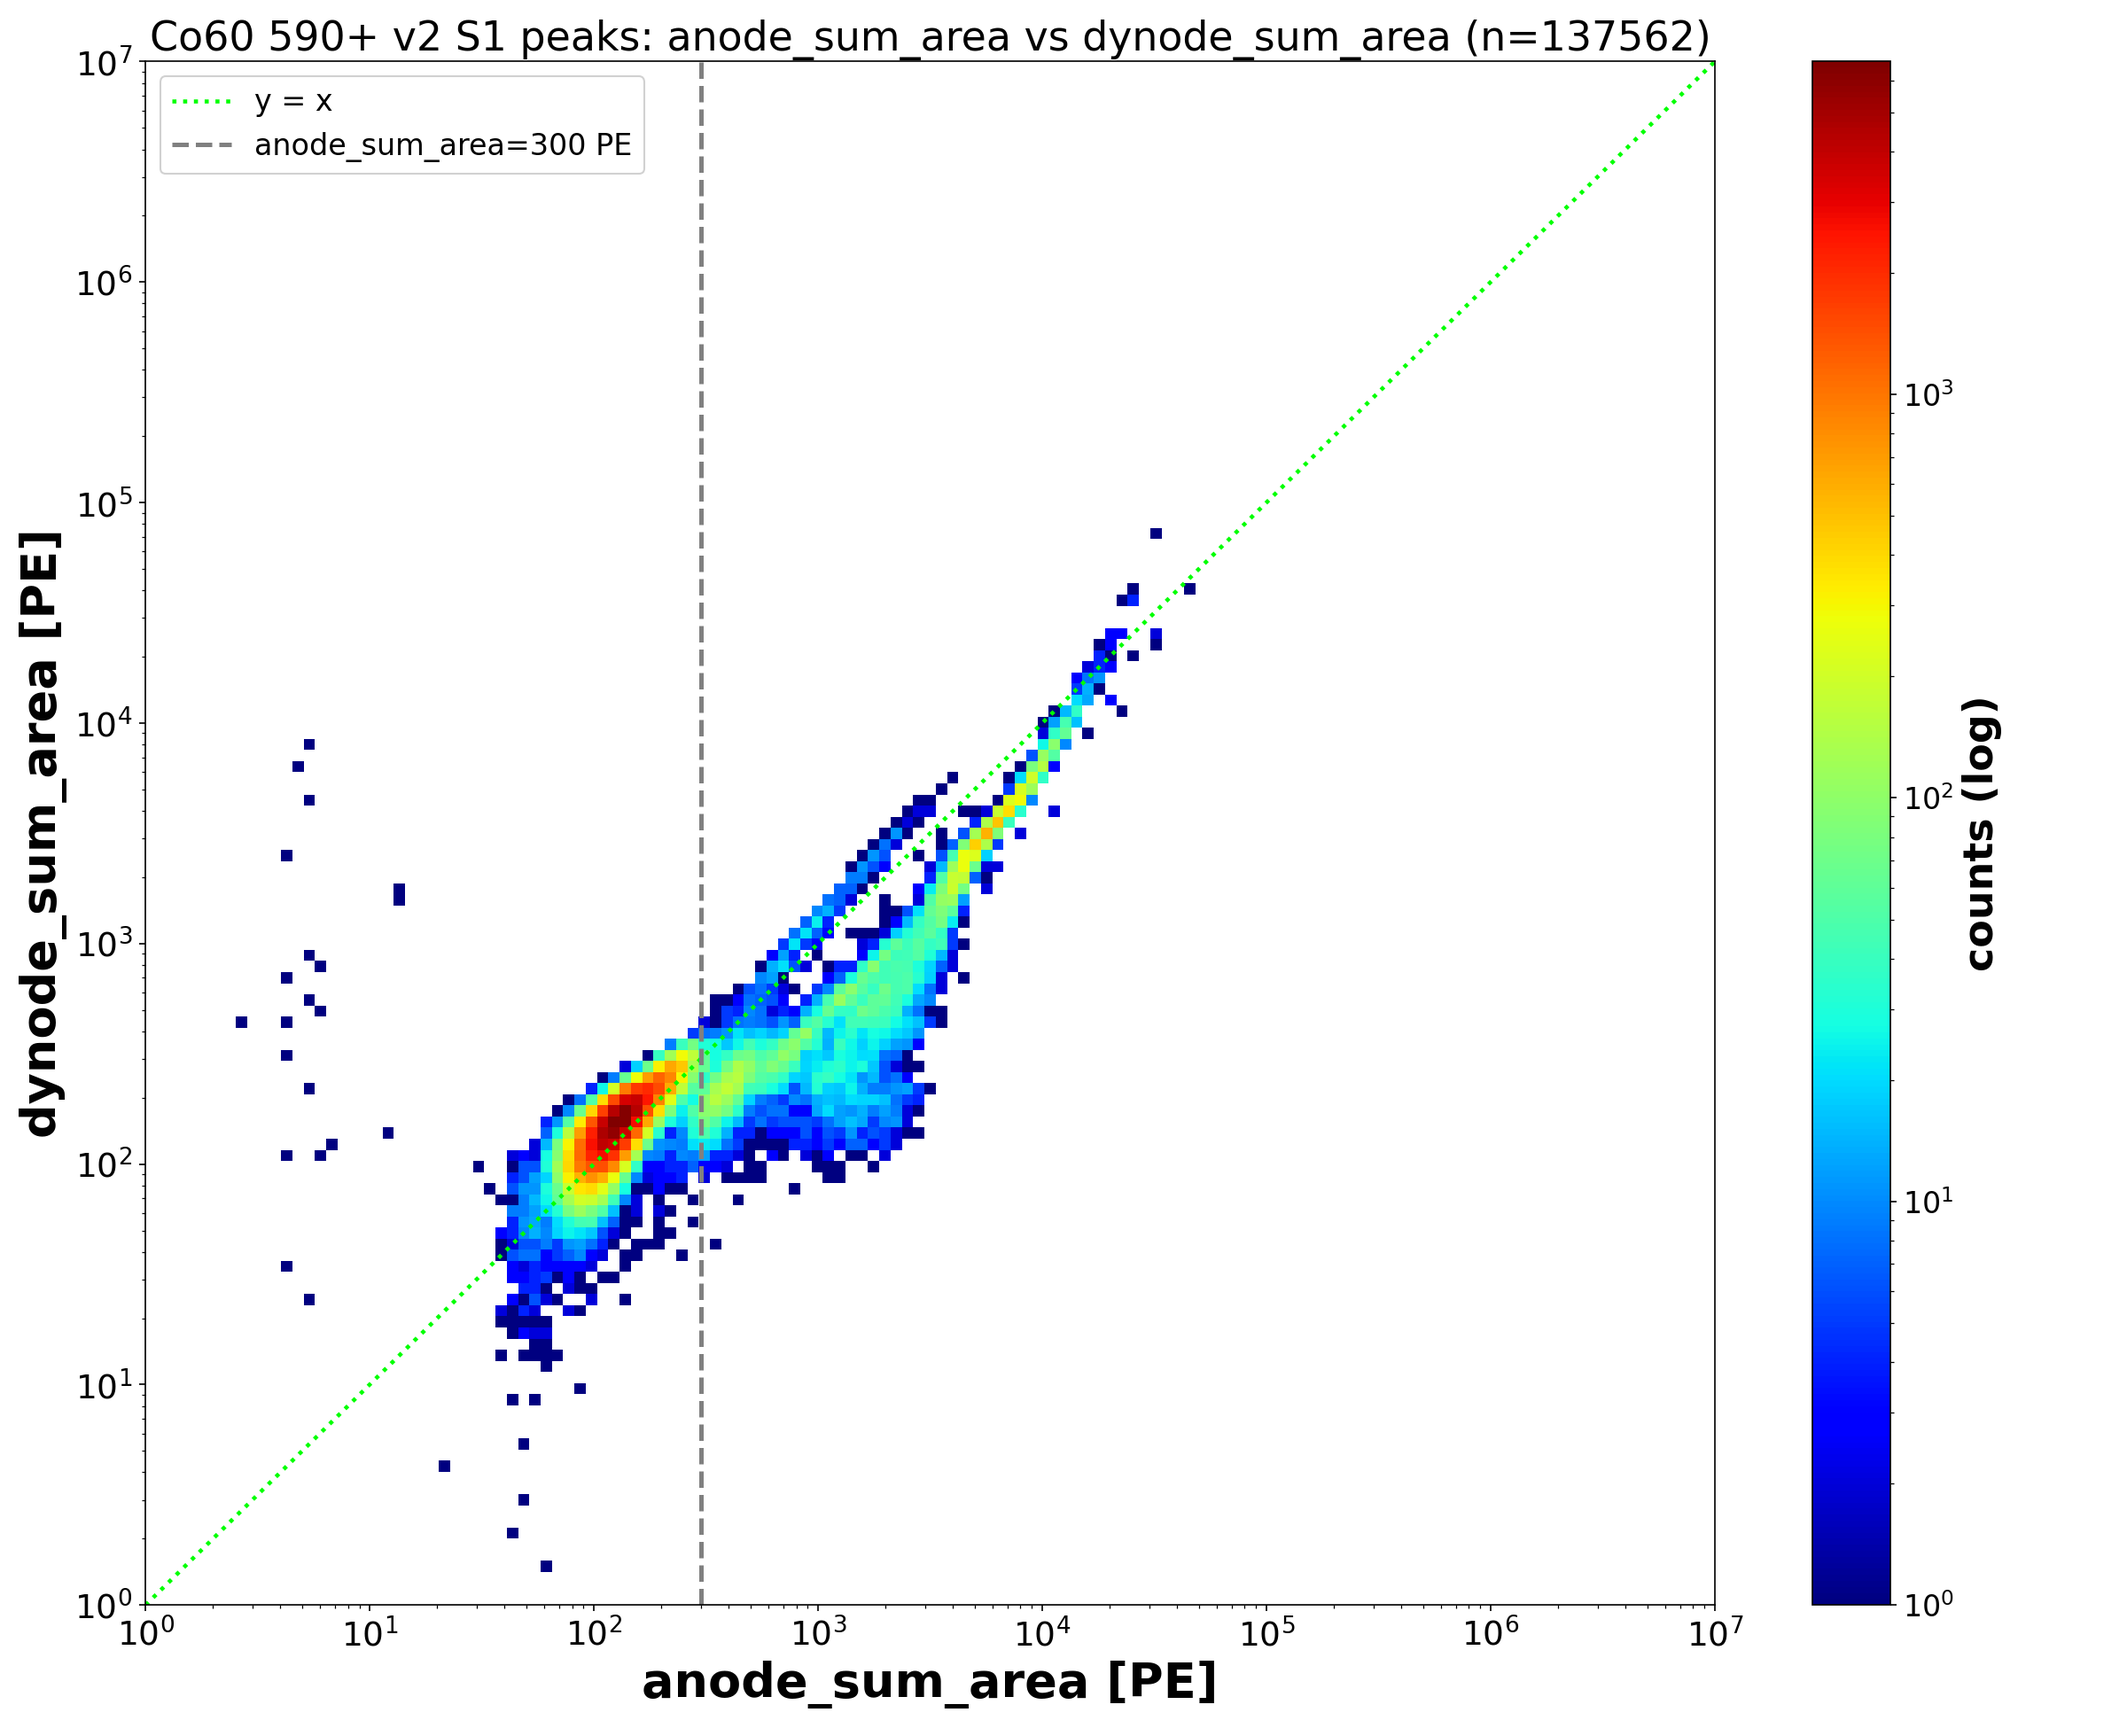
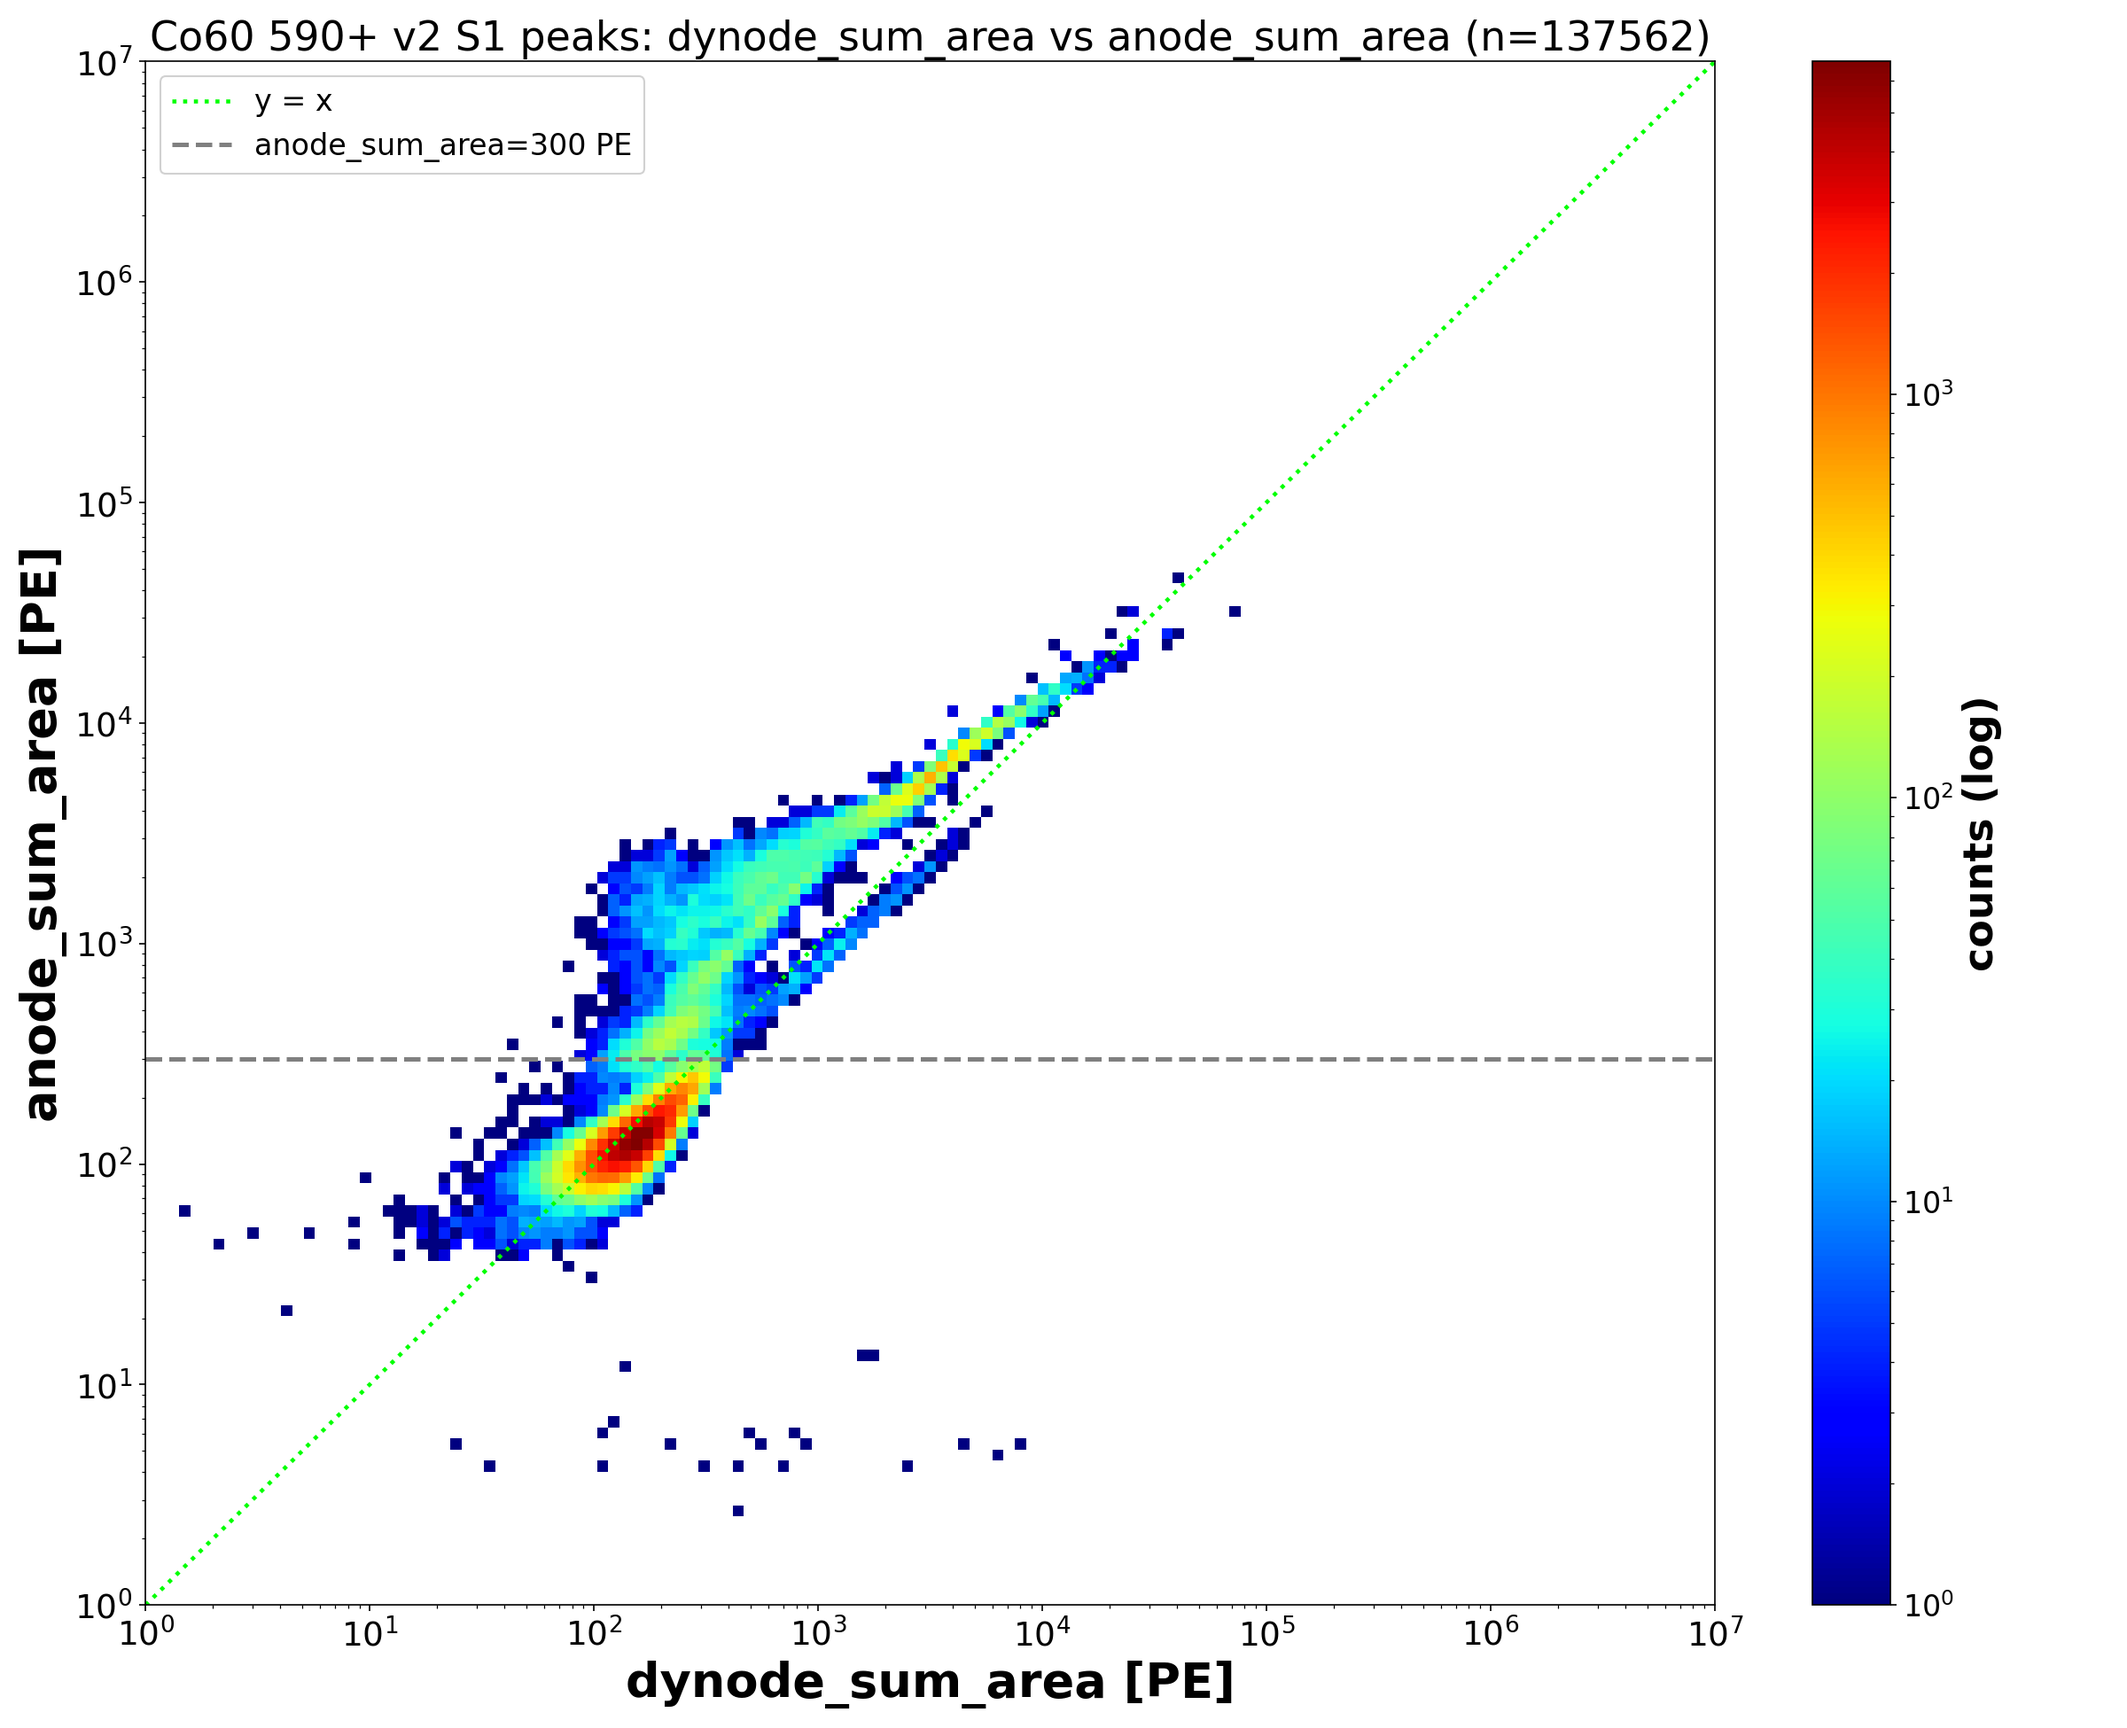
S1 anode/dynode sum-area 2D: swap axes (x=dynode_sum_area, y=anode_sum_area)

diff --git a/scripts/plot_s1_anode_vs_dynode_sum_area.py b/scripts/plot_s1_anode_vs_dynode_sum_area.py
@@ -31,7 +31,7 @@ print(f"S1 peaks={len(s1)}  plotted={len(v)}")
 lo, hi = 1.0, 1e7
 fig, ax = plt.subplots(figsize=(16, 13))
 hb = ax.hist2d(
-    v.anode_sum_area, v.dynode_sum_area,
+    v.dynode_sum_area, v.anode_sum_area,
     bins=[np.logspace(np.log10(lo), np.log10(hi), 140),
           np.logspace(np.log10(lo), np.log10(hi), 140)],
     cmap="jet", cmin=1, norm=LogNorm())
@@ -40,10 +40,10 @@ ax.set_yscale("log")
 ax.set_xlim(lo, hi)
 ax.set_ylim(lo, hi)
 ax.plot([lo, hi], [lo, hi], color="lime", ls=":", lw=2.2, label="y = x")
-ax.axvline(300, color="gray", ls="--", lw=2.4, label="anode_sum_area=300 PE")
-ax.set_xlabel("anode_sum_area [PE]")
-ax.set_ylabel("dynode_sum_area [PE]")
-ax.set_title(f"Co60 590+ v2 S1 peaks: anode_sum_area vs dynode_sum_area (n={len(v)})")
+ax.axhline(300, color="gray", ls="--", lw=2.4, label="anode_sum_area=300 PE")
+ax.set_xlabel("dynode_sum_area [PE]")
+ax.set_ylabel("anode_sum_area [PE]")
+ax.set_title(f"Co60 590+ v2 S1 peaks: dynode_sum_area vs anode_sum_area (n={len(v)})")
 ax.legend(loc="upper left", framealpha=0.9)
 cb = fig.colorbar(hb[3], ax=ax)
 cb.set_label("counts (log)", fontsize=22, fontweight="bold")
